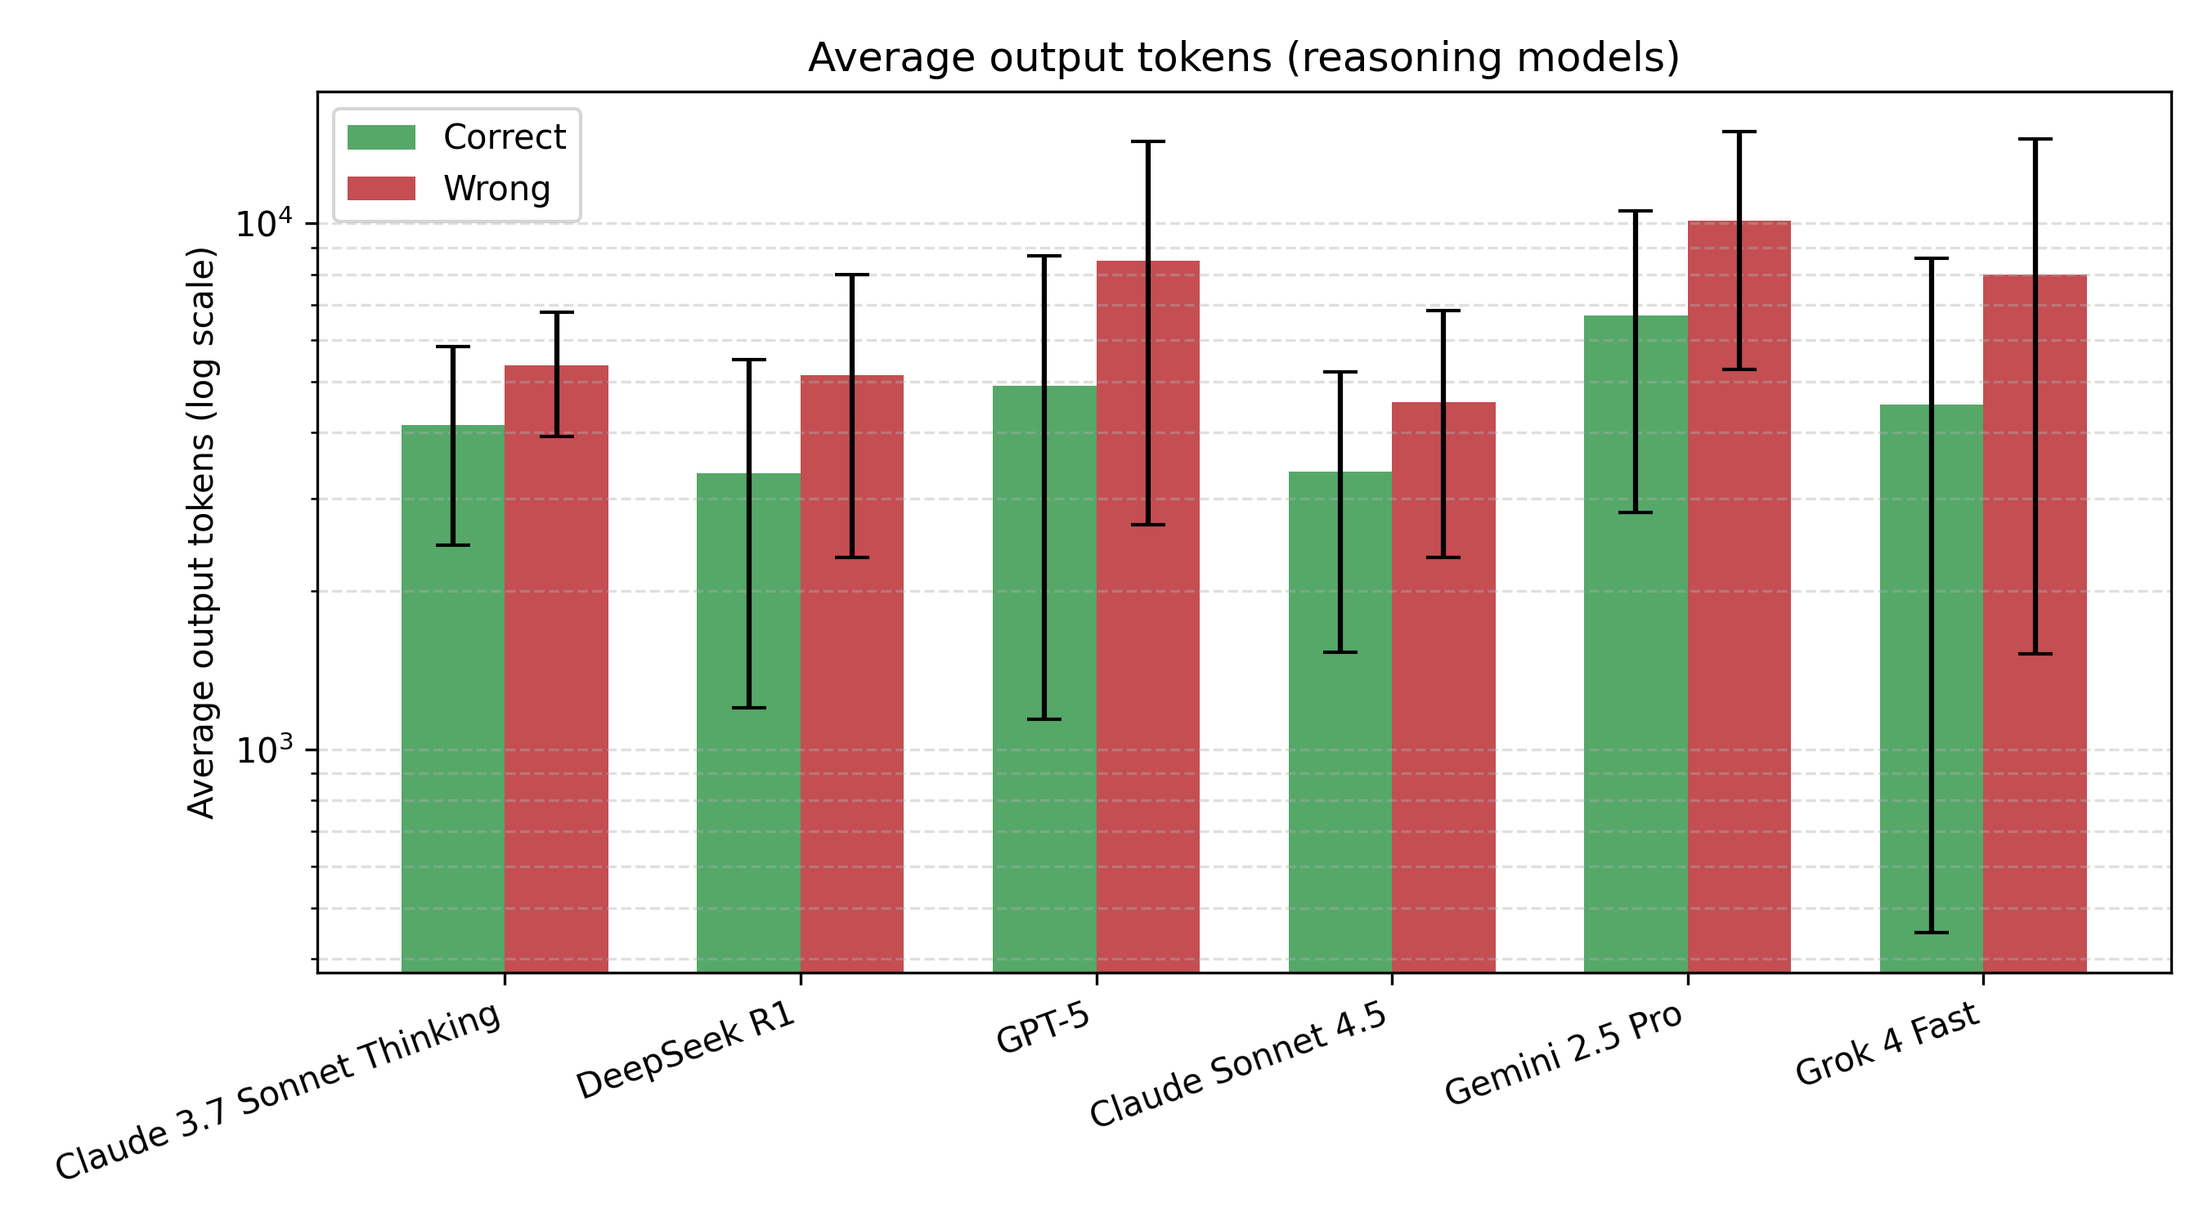
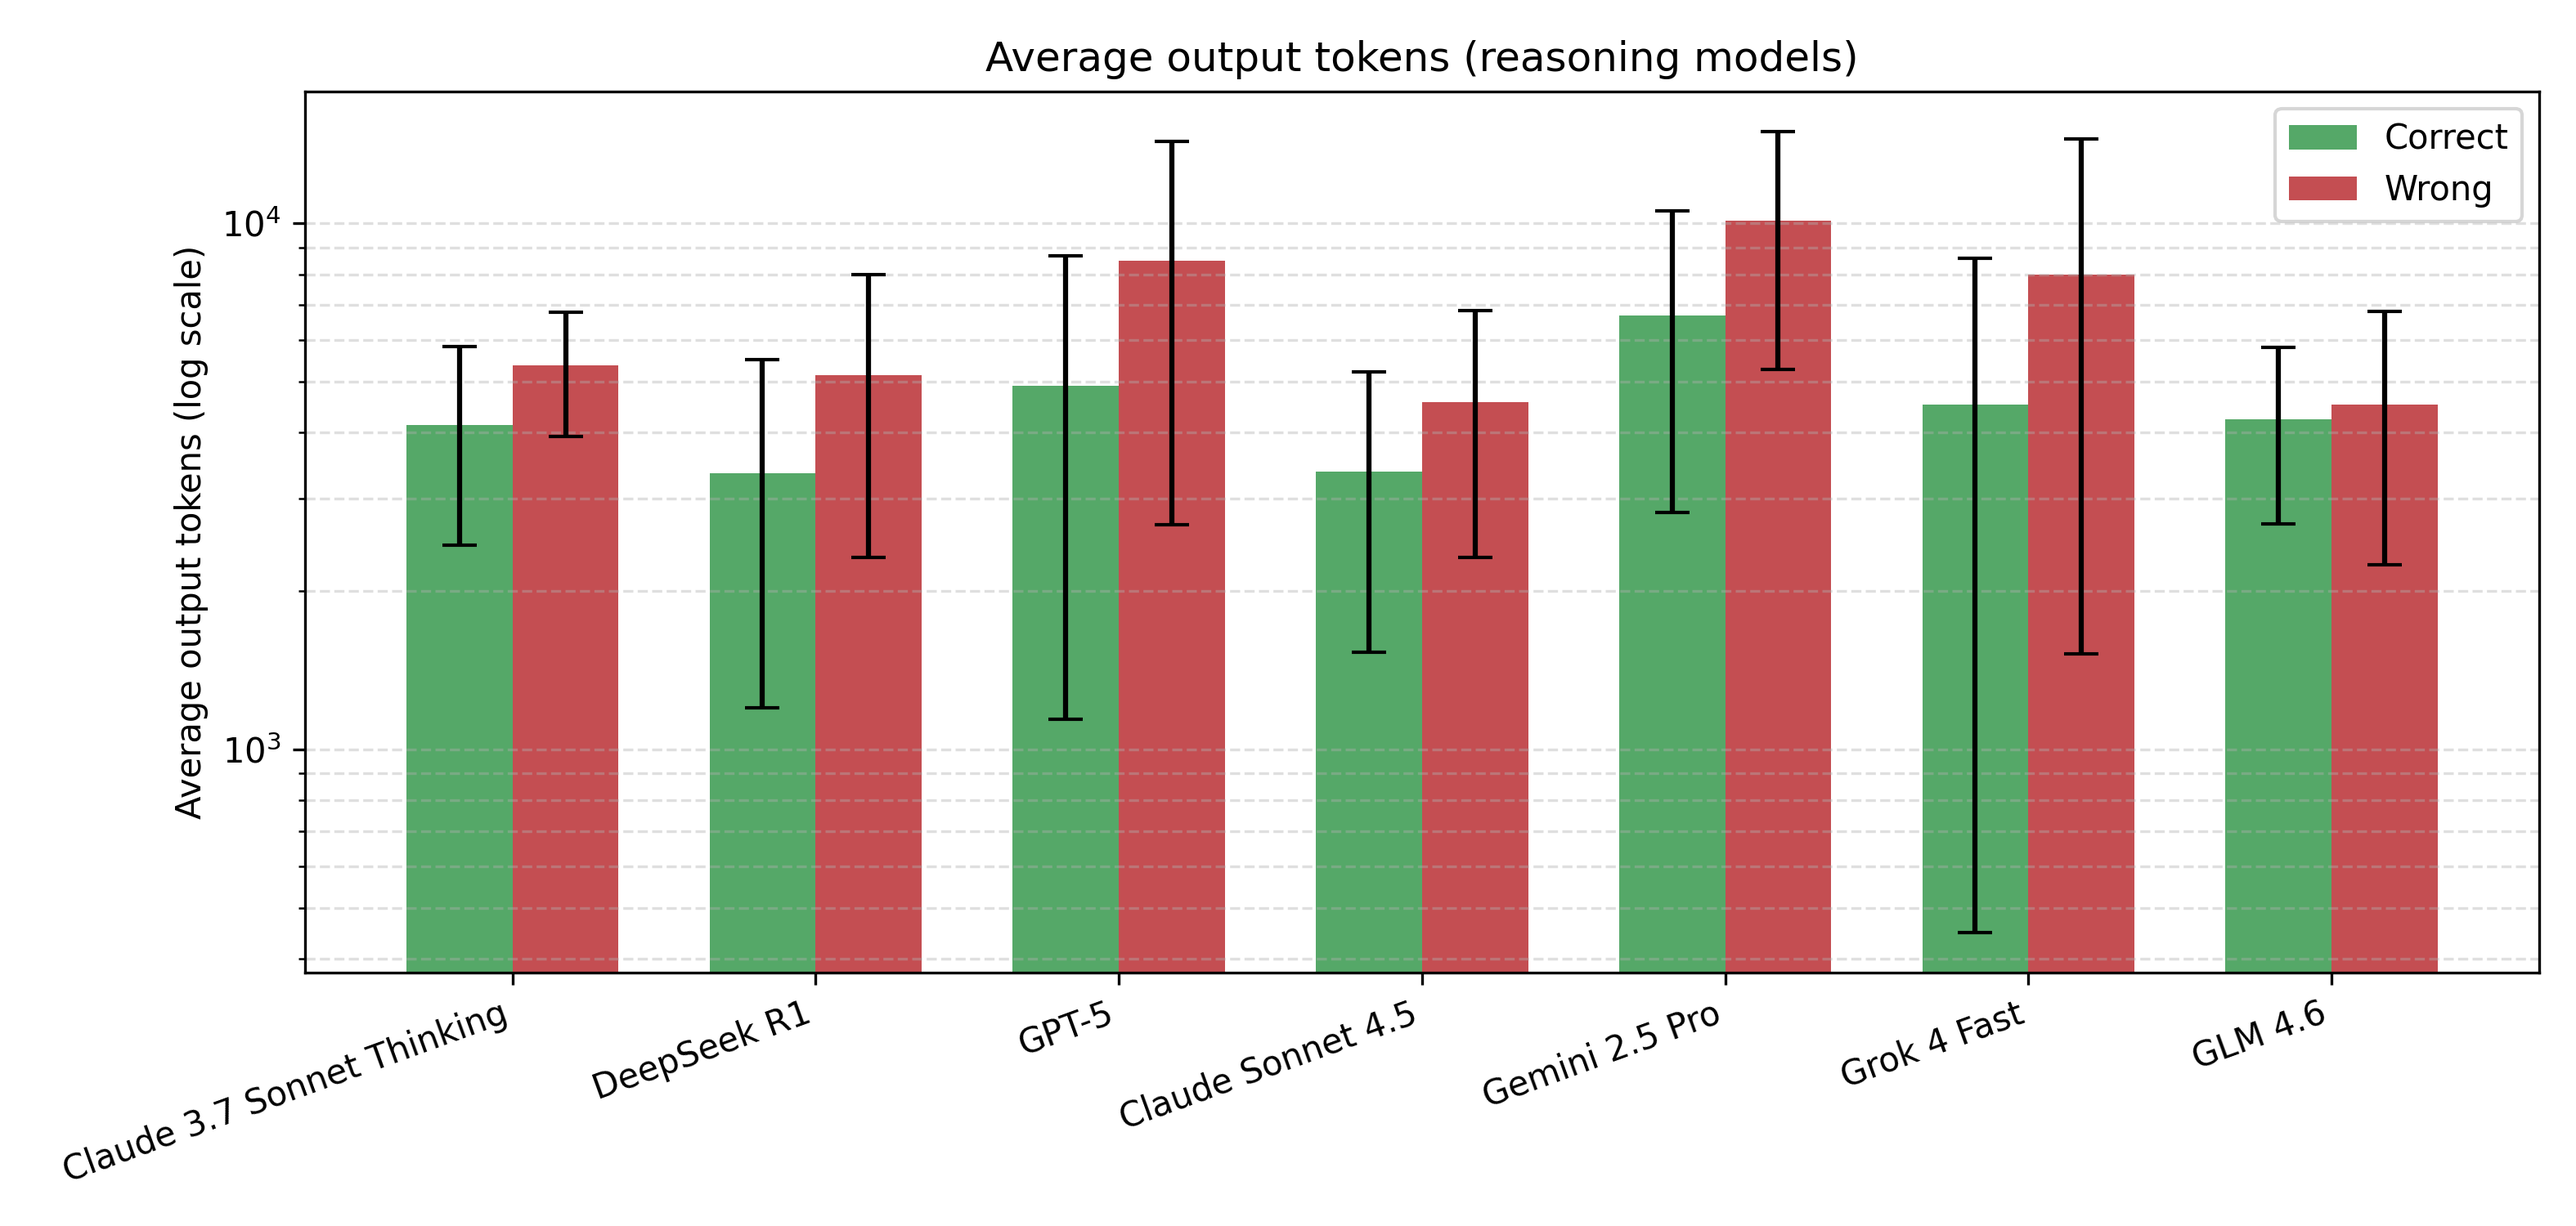
Glm added

diff --git a/src/analyzing/config.py b/src/analyzing/config.py
@@ -94,7 +94,7 @@ ITERATIVE_MODEL_ENTRIES = [
     ("responses_openrouter_anthropic_claude_sonnet_4_5_reasoning.jsonl", "Claude Sonnet 4.5"),
     ("responses_openrouter_google__gemini-2.5-pro_reverified.jsonl", "Gemini 2.5 Pro"),
     ("responses_openrouter_x-ai__grok-4-fast_reverified.jsonl", "Grok 4 Fast"),
-    # ("responses_openrouter_z-ai__glm-4.6_reverified.jsonl", "GLM 4.6"),  # Excluded from knowledge gap analysis
+    ("responses_openrouter_z-ai__glm-4.6_reverified.jsonl", "GLM 4.6"),
 ]
 
 ITERATIVE_MODEL_DISPLAY_NAMES = [display for _, display in ITERATIVE_MODEL_ENTRIES]

diff --git a/src/analyzing/plot_all_questions_hop_distributions.py b/src/analyzing/plot_all_questions_hop_distributions.py
@@ -624,6 +624,7 @@ def main() -> None:
     gold_context_filename_mapping = {
         "responses_openrouter_google__gemini-2.5-pro_reverified.jsonl": "responses_openrouter_google__gemini-2.5-pro-reasoning.jsonl",
         "responses_openrouter_x-ai__grok-4-fast_reverified.jsonl": "responses_openrouter_x-ai__grok-4-fast-reasoning.jsonl",
+        "responses_openrouter_z-ai__glm-4.6_reverified.jsonl": "responses_openrouter_z-ai__glm-4.6-reasoning.jsonl",
     }
 
     for iterative_path, display_name in get_iterative_model_entries():
